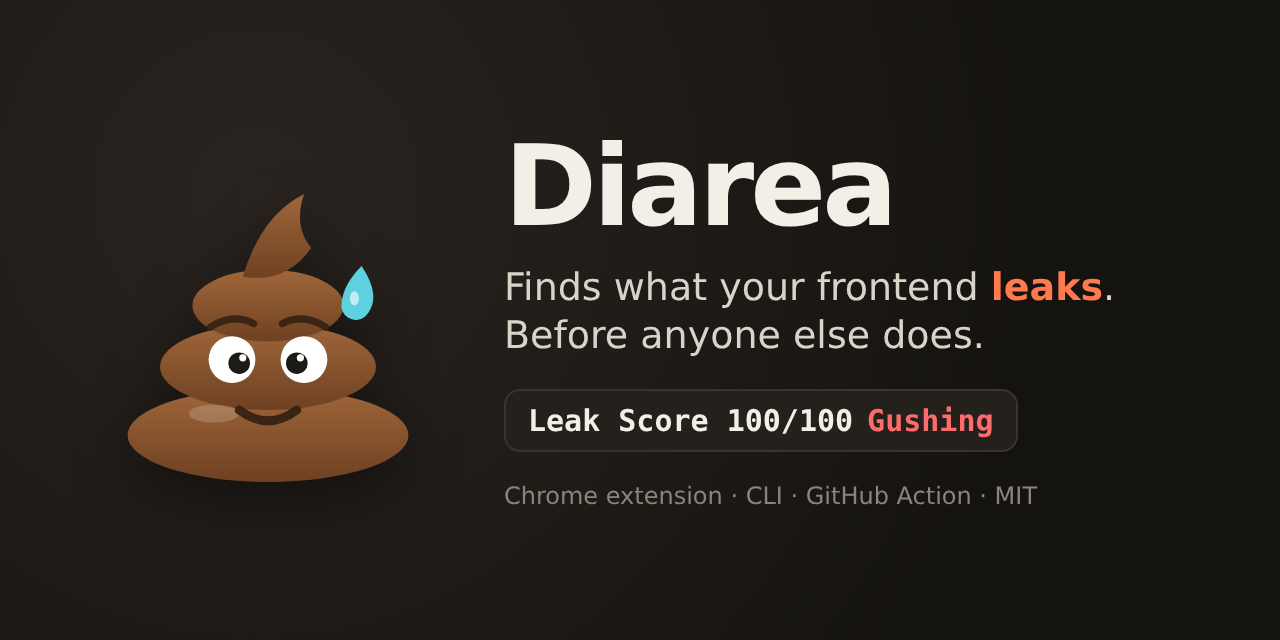
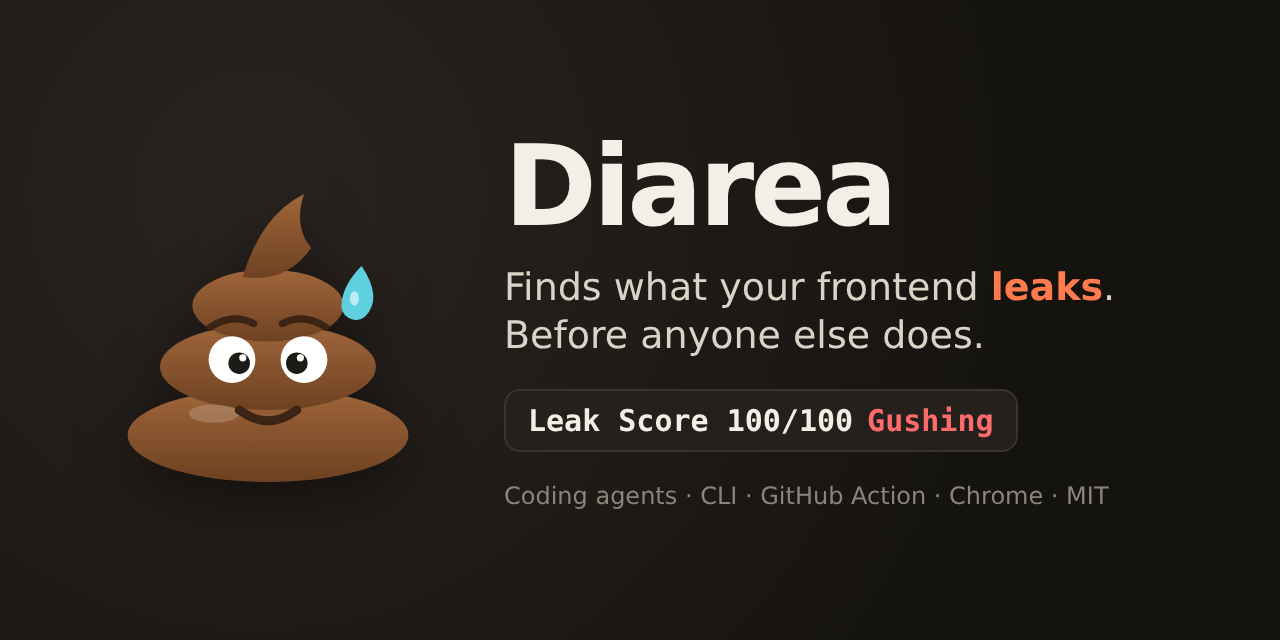
0.6.0: first live scan installs its browser, demo button never dead, link previews
Fixes from launch testing:

- The hero's quick start failed on a fresh machine with Playwright's
  "Executable doesn't exist". src/browser.js now starts Chromium for live
  scans and diarea login, turns that into a plain message, and installs with
  Diarea's own bundled Playwright (diarea install-browser), so the browser
  always matches; a bare npx playwright install can fetch another version.
  In a terminal the CLI offers to download it and retries the scan; CI,
  pipes and the MCP server just get the instruction. The hero and README
  say so.
- "Run the diagnosis" ignored clicks that came before the demo script had
  loaded (reproduced by delaying landing.js and clicking at once). The
  button now reads "Preparing the demo..." until the script and the demo
  page are ready, and an inline script remembers early clicks on the button
  or "Scan the leaky demo" so the scan starts as soon as it can.
- Link previews: a 1200x630 og-image (the 1.91:1 shape LinkedIn, X and
  Facebook use) alongside the 1280x640 GitHub one, image size, type and alt
  tags, site name, locale, X tags, a canonical URL, and a description that
  mentions coding agents and AI prompts.

Also: the sensitive-fields check (f3b8474) landed after the published
0.5.0, so the CHANGELOG lists it under 0.6.0 now.

Claude-Session: https://claude.ai/code/session_01Nn5ciGHHAuqPVRn5H8HYUB

Changed region(s): [[0.4062, 0.75, 0.875, 0.8125]]

diff --git a/site/index.html b/site/index.html
@@ -7,13 +7,36 @@
   <meta name="description" content="An AI agent can read your frontend and rebuild your product. Diarea reads it first, scores the leak from Sealed to Gushing, and tells you how to flush it. Open source, local only." />
   <meta name="theme-color" content="#191714" />
   <meta property="og:type" content="website" />
+  <meta property="og:site_name" content="Diarea" />
+  <meta property="og:locale" content="en_GB" />
   <meta property="og:title" content="Diarea: finds what your frontend leaks" />
-  <meta property="og:description" content="Exposed keys, source maps, API maps and debug globals, scored from Sealed to Gushing. Chrome extension, CLI and GitHub Action. MIT." />
+  <meta property="og:description" content="Exposed keys, source maps, API maps and AI prompts, scored from Sealed to Gushing. For your coding agent, the CLI, GitHub Actions and Chrome. Open source, local only." />
   <meta property="og:url" content="https://diarea.tools/" />
-  <meta property="og:image" content="https://diarea.tools/assets/social-preview.png" />
+  <meta property="og:image" content="https://diarea.tools/assets/og-image.png" />
+  <meta property="og:image:secure_url" content="https://diarea.tools/assets/og-image.png" />
+  <meta property="og:image:type" content="image/png" />
+  <meta property="og:image:width" content="1200" />
+  <meta property="og:image:height" content="630" />
+  <meta property="og:image:alt" content="The Diarea mascot, sweating, next to a Leak Score of 100 out of 100: Gushing." />
   <meta name="twitter:card" content="summary_large_image" />
+  <meta name="twitter:title" content="Diarea: finds what your frontend leaks" />
+  <meta name="twitter:description" content="Exposed keys, source maps, API maps and AI prompts, scored from Sealed to Gushing. For your coding agent, the CLI, GitHub Actions and Chrome. Open source, local only." />
+  <meta name="twitter:image" content="https://diarea.tools/assets/og-image.png" />
+  <meta name="twitter:image:alt" content="The Diarea mascot, sweating, next to a Leak Score of 100 out of 100: Gushing." />
+  <link rel="canonical" href="https://diarea.tools/" />
   <link rel="icon" href="assets/mascot.svg" type="image/svg+xml" />
   <link rel="stylesheet" href="landing.css" />
+  <script>
+    // Clicks that land before the demo script has loaded are remembered, not
+    // lost: landing.js starts the scan as soon as it and the demo are ready.
+    document.addEventListener("click", function (e) {
+      if (window.__diareaReady || !e.target.closest) return;
+      if (!e.target.closest("#scan-btn, [data-autoscan]")) return;
+      window.__diareaQueued = true;
+      var b = document.getElementById("scan-btn");
+      if (b) b.textContent = "Starting in a moment...";
+    });
+  </script>
 </head>
 <body>
   <a class="skip" href="#main">Skip to content</a>
@@ -48,6 +71,7 @@
         <div class="quick" aria-label="Quick start">
           <span class="prompt" aria-hidden="true">$</span><code>npx diarea scan https://your-site.com</code><button class="copy" type="button">Copy</button>
         </div>
+        <p class="quick-note">First live scan? Diarea offers to download a browser, once. Or run <code>npx diarea install-browser</code> first. Scanning your build with <code>npx diarea scan dist/</code> needs no browser at all.</p>
         <p class="fine">Exposed keys, source maps, API maps, AI prompts and the logic you thought was private. No signup, nothing leaves your machine.</p>
       </div>
       <div class="hero-art" aria-hidden="true">
@@ -119,7 +143,7 @@
               <p class="band" id="band">Awaiting diagnosis</p>
               <p class="band-line" id="band-line">Nothing examined yet. The patient is nervous.</p>
               <p class="basis-line" id="basis-line"></p>
-              <button class="btn btn-primary" id="scan-btn" type="button">Run the diagnosis</button>
+              <button class="btn btn-primary is-preparing" id="scan-btn" type="button" aria-disabled="true">Preparing the demo...</button>
             </div>
           </div>
           <div class="siu-meter" id="siu-meter" hidden aria-hidden="true">

diff --git a/bin/diarea.js b/bin/diarea.js
@@ -12,11 +12,12 @@ const HELP = `
 diarea ${VERSION}  -  frontend leak scanner (local, read-only)
 
 Usage:
-  diarea scan <url>              Scan a live site (needs Playwright + a browser)
+  diarea scan <url>              Scan a live site in a headless browser (offers to install it the first time)
   diarea scan <file.html>        Scan a saved page, no browser
   diarea scan <folder>           Scan a build folder: index.html plus every script (dist/)
   diarea scan --html <file>      Same, explicit
   cat page.html | diarea scan -  Scan HTML from stdin
+  diarea install-browser         Download the browser live scans use (once, matched to this version)
   diarea login <url>             Log in once in a real browser and save it, to scan pages behind a login
   diarea setup                   Let your coding agent run Diarea (Claude Code, MCP)
   diarea setup --project         ...for everyone on this project (.mcp.json)
@@ -131,6 +132,20 @@ function renderHuman(result, mode, s) {
   return out.join("\n");
 }
 
+// Only ask when a person is at the keyboard; in CI, pipes and agents the
+// error itself says what to run.
+async function offerBrowserInstall(s) {
+  if (!process.stdin.isTTY || !process.stderr.isTTY) return false;
+  const { createInterface } = await import("node:readline/promises");
+  const rl = createInterface({ input: process.stdin, output: process.stderr });
+  const answer = await rl.question(`\n  ${s.mag("\u{1F4A9} diarea")} Live scans need a browser, and Chromium is not installed yet.\n` +
+    "  Download it now? It is a one-off download, kept for next time. [Y/n] ");
+  rl.close();
+  if (/^\s*n/i.test(answer)) return false;
+  const { installBrowser } = await import("../src/browser.js");
+  return installBrowser() === 0;
+}
+
 async function main() {
   const o = parseArgs(process.argv.slice(2));
   if (o.version) { console.log(VERSION); return 0; }
@@ -149,6 +164,10 @@ async function main() {
     const { login } = await import("../src/login.js");
     return login(process.argv.slice(3));
   }
+  if (cmd === "install-browser") {
+    const { installBrowser } = await import("../src/browser.js");
+    return installBrowser();
+  }
   if (cmd === "setup") {
     const { setup } = await import("../src/setup.js");
     return setup(process.argv.slice(3));
@@ -164,7 +183,14 @@ async function main() {
   let result;
   try {
     if (o.storageState && (o.html || !isUrl(target))) throw new Error("--storage-state only applies to live scans of a URL.");
-    result = await scan(target, { timeout: o.timeout, forceStatic: Boolean(o.html), storageState: o.storageState });
+    const run = () => scan(target, { timeout: o.timeout, forceStatic: Boolean(o.html), storageState: o.storageState });
+    try {
+      result = await run();
+    } catch (err) {
+      // First live scan on this machine: offer to fetch the browser, then go again.
+      if (err.code !== "NO_BROWSER" || err.missingPackage || !(await offerBrowserInstall(s))) throw err;
+      result = await run();
+    }
   } catch (err) {
     console.error(`\n  ${s.crit("Could not scan.")} ${err.message}\n`);
     return 2;

diff --git a/src/browser.js b/src/browser.js
@@ -1,0 +1,49 @@
+/* Starting Chromium for live scans and `diarea login`, and installing it.
+ *
+ * Playwright's own error for a missing browser tells people to run
+ * `npx playwright install`, which can fetch a different Playwright from the
+ * one Diarea runs and so download a browser that still does not match. Diarea
+ * installs with its own bundled Playwright instead: `diarea install-browser`.
+ */
+import path from "node:path";
+import { spawnSync } from "node:child_process";
+import { createRequire } from "node:module";
+
+export const INSTALL_COMMAND = "npx diarea install-browser";
+
+export class BrowserMissingError extends Error {
+  constructor(missingPackage = false) {
+    super(missingPackage
+      ? "Live scans need Playwright, which is not installed here.\n  Install it:  npm install playwright\n  Then once:   " + INSTALL_COMMAND +
+        "\n  Or scan your build without a browser:  npx diarea scan dist/"
+      : "Live scans need a browser, and Chromium is not installed yet.\n  Install it once:  " + INSTALL_COMMAND +
+        "\n  Or scan your build without a browser:  npx diarea scan dist/");
+    this.code = "NO_BROWSER";
+    this.missingPackage = missingPackage;
+  }
+}
+
+export async function launchChromium(options = {}) {
+  let chromium;
+  try { ({ chromium } = await import("playwright")); } catch { throw new BrowserMissingError(true); }
+  try {
+    return await chromium.launch(options);
+  } catch (err) {
+    if (/Executable doesn't exist|playwright install|browserType\.launch: .*not found/i.test(err.message)) throw new BrowserMissingError();
+    throw err;
+  }
+}
+
+/** Download Chromium with the Playwright Diarea itself uses. Returns the exit code. */
+export function installBrowser({ stdio = "inherit" } = {}) {
+  let cli;
+  try {
+    const pkg = createRequire(import.meta.url).resolve("playwright/package.json");
+    cli = path.join(path.dirname(pkg), "cli.js");
+  } catch {
+    console.error("Playwright is not installed here. Run: npm install playwright");
+    return 2;
+  }
+  const res = spawnSync(process.execPath, [cli, "install", "chromium"], { stdio });
+  return res.status ?? 2;
+}

diff --git a/docs/assets/og-image.html b/docs/assets/og-image.html
@@ -1,0 +1,24 @@
+<!DOCTYPE html>
+<!-- Source for og-image.png (1200x630, the 1.91:1 link-preview shape LinkedIn, X and Facebook use). social-preview.html is the 1280x640 one for GitHub. -->
+<html lang="en-GB"><head><meta charset="UTF-8"><title>Diarea link preview</title>
+<style>
+  html, body { margin: 0; width: 1200px; height: 630px; }
+  body { background: radial-gradient(circle at 20% 30%, #2a2420, #151310 70%); color: #f3efe6;
+    font-family: "DejaVu Sans", system-ui, sans-serif; display: flex; align-items: center; gap: 48px; padding: 0 76px; box-sizing: border-box; overflow: hidden; }
+  img { width: 330px; height: 330px; flex: none; filter: drop-shadow(0 18px 30px rgba(0,0,0,.45)); }
+  h1 { font-size: 104px; margin: 0; letter-spacing: -4px; line-height: 1; }
+  .tag { font-size: 36px; line-height: 1.25; margin: 22px 0 30px; color: #d9d4c7; }
+  .tag b { color: #ff7a4d; }
+  .score { display: inline-flex; align-items: baseline; gap: 14px; background: #24211d; border: 2px solid #39352e; border-radius: 16px; padding: 12px 22px; font-family: "DejaVu Sans Mono", monospace; font-size: 30px; }
+  .score .n { font-weight: 700; } .score .g { color: #ff6b6b; font-weight: 700; }
+  .meta { margin-top: 30px; font-size: 24px; color: #8a857a; }
+</style></head>
+<body>
+  <img src="mascot.svg" alt="">
+  <div>
+    <h1>Diarea</h1>
+    <p class="tag">Finds what your frontend <b>leaks</b>.<br>Before anyone else does.</p>
+    <div class="score"><span class="n">Leak Score 100/100</span><span class="g">Gushing</span></div>
+    <div class="meta">Coding agents · CLI · GitHub Action · Chrome · MIT</div>
+  </div>
+</body></html>

diff --git a/site/landing.css b/site/landing.css
@@ -97,6 +97,7 @@ h2 { font-size: clamp(28px, 4.2vw, 42px); }
 .btn-primary { background: var(--accent); color: var(--accent-ink); box-shadow: 0 6px 18px color-mix(in srgb, var(--accent) 30%, transparent); }
 .btn-primary:hover { box-shadow: 0 8px 24px color-mix(in srgb, var(--accent) 40%, transparent); }
 .btn-primary[disabled] { opacity: 0.6; cursor: progress; }
+.btn-primary.is-preparing { opacity: 0.75; cursor: progress; }
 .btn-ghost { color: var(--ink); border-color: var(--line); background: var(--card); }
 .btn-ghost:hover { border-color: var(--ink-faint); }
 :focus-visible { outline: 3px solid color-mix(in srgb, var(--accent) 60%, transparent); outline-offset: 2px; }
@@ -128,6 +129,8 @@ h2 { font-size: clamp(28px, 4.2vw, 42px); }
 .quick .prompt { color: #8f887b; font-family: ui-monospace, SFMono-Regular, Menlo, Consolas, monospace; }
 .quick code { flex: 1; min-width: 0; overflow-x: auto; white-space: nowrap; font-size: 15px; }
 .quick .copy { position: static; flex: none; }
+.quick-note { margin: 10px 0 0; max-width: 560px; font-size: 14px; color: var(--ink-faint); }
+.quick-note code { background: var(--paper-2); border: 1px solid var(--line); border-radius: 6px; padding: 1px 5px; color: var(--ink-soft); white-space: nowrap; }
 .hero-art { position: relative; display: grid; place-items: center; }
 .mascot { width: min(300px, 70vw); height: auto; filter: drop-shadow(0 20px 30px rgba(60, 35, 15, 0.25)); animation: wobble 4s ease-in-out infinite; transform-origin: 50% 90%; }
 @keyframes wobble { 0%, 100% { transform: rotate(-2deg); } 50% { transform: rotate(2deg) translateY(-4px); } }

diff --git a/src/collect-live.js b/src/collect-live.js
@@ -4,7 +4,8 @@
  * to run on your own machine against a deployed site.
  *
  * Playwright is an optional dependency so that the static/CI path works without
- * a browser. If it is missing, this throws a clear, actionable error.
+ * a browser. If it or its Chromium is missing, launchChromium throws a
+ * BrowserMissingError that says how to install it (src/browser.js).
  *
  * Options:
  *   timeout       navigation timeout in ms
@@ -16,6 +17,7 @@
  */
 
 import { collectPage } from "./collect-page.js";
+import { launchChromium } from "./browser.js";
 import { crossOriginScripts, mapUrlFor, isSourceMap, isRelatedHost } from "./cross-origin.js";
 import { keyPaths } from "./shape.js";
 
@@ -60,21 +62,9 @@ export async function collectLive(url, opts = {}) {
   const guard = opts.guard || null;
   if (guard) await guard(url);
 
-  let chromium;
-  try {
-    ({ chromium } = await import("playwright"));
-  } catch {
-    throw new Error(
-      "Live scanning needs Playwright and a browser.\n" +
-      "  npm install playwright\n" +
-      "  npx playwright install chromium\n" +
-      "Or scan a saved page without a browser:  diarea scan --html page.html"
-    );
-  }
-
   // Always close the browser, even when navigation or collection throws:
   // the MCP server is long-lived, so a leaked Chromium would outlast the scan.
-  const browser = await chromium.launch();
+  const browser = await launchChromium();
   try {
     const context = await browser.newContext({
       ...(opts.storageState ? { storageState: opts.storageState } : {}),

diff --git a/site/landing.js b/site/landing.js
@@ -140,12 +140,39 @@ async function scan() {
   }
 }
 
-btn.addEventListener("click", scan);
+// The button stays in "Preparing" until this script and the demo page have
+// both loaded. Clicks before that are queued (see the inline script in
+// index.html), so a fast visitor never gets a dead button.
+let ready = false;
+let queued = false;
+function demoLoaded() {
+  return new Promise((resolve) => {
+    try {
+      const doc = frame.contentDocument;
+      if (doc && doc.readyState === "complete" && doc.location.href !== "about:blank") return resolve();
+    } catch { /* not readable yet */ }
+    frame.addEventListener("load", () => resolve(), { once: true });
+    setTimeout(resolve, 15000); // a slow demo still gets a working button
+  });
+}
+
+btn.addEventListener("click", () => { if (ready) scan(); else queued = true; });
 
 // "Scan the leaky demo" links scroll to the demo and start it.
 for (const a of document.querySelectorAll("[data-autoscan]")) {
-  a.addEventListener("click", () => setTimeout(scan, reduced ? 0 : 450));
+  a.addEventListener("click", () => {
+    if (ready) setTimeout(scan, reduced ? 0 : 450); else queued = true;
+  });
 }
+
+demoLoaded().then(() => {
+  ready = true;
+  window.__diareaReady = true;
+  btn.classList.remove("is-preparing");
+  btn.removeAttribute("aria-disabled");
+  if (queued || window.__diareaQueued) { queued = false; scan(); }
+  else btn.textContent = "Run the diagnosis";
+});
 
 // Copy buttons on the install snippets.
 for (const b of document.querySelectorAll(".copy")) {

diff --git a/src/login.js b/src/login.js
@@ -9,6 +9,7 @@
  * does hold a live session, so it is written readable by you only, and the
  * default folder (.diarea/) gets its own .gitignore so it is never committed.
  */
+import { launchChromium } from "./browser.js";
 import fs from "node:fs";
 import path from "node:path";
 import { createInterface } from "node:readline";
@@ -47,15 +48,14 @@ export async function login(argv, { log = console.log, cwd = process.cwd(), inpu
     return 2;
   }
 
-  let chromium;
+  let browser;
   try {
-    ({ chromium } = await import("playwright"));
-  } catch {
-    log("Saving a login needs Playwright and a browser:\n  npm install playwright\n  npx playwright install chromium");
+    browser = await launchChromium({ headless: false });
+  } catch (err) {
+    if (err.code !== "NO_BROWSER") throw err;
+    log("Saving a login needs a browser.\n" + err.message.split("\n").slice(1).join("\n"));
     return 2;
   }
-
-  const browser = await chromium.launch({ headless: false });
   try {
     const context = await browser.newContext();
     const page = await context.newPage();

diff --git a/docs/assets/social-preview.html b/docs/assets/social-preview.html
@@ -19,6 +19,6 @@
     <h1>Diarea</h1>
     <p class="tag">Finds what your frontend <b>leaks</b>.<br>Before anyone else does.</p>
     <div class="score"><span class="n">Leak Score 100/100</span><span class="g">Gushing</span></div>
-    <div class="meta">Chrome extension · CLI · GitHub Action · MIT</div>
+    <div class="meta">Coding agents · CLI · GitHub Action · Chrome · MIT</div>
   </div>
 </body></html>

diff --git a/scripts/build.js b/scripts/build.js
@@ -16,7 +16,7 @@ const TARGETS = {
   extension: { "extension/lib": [...ENGINE, "src/cross-origin.js"] },
   site: {
     "site/lib": ENGINE,
-    "site/assets": ["docs/assets/mascot.svg", "docs/assets/social-preview.png"],
+    "site/assets": ["docs/assets/mascot.svg", "docs/assets/social-preview.png", "docs/assets/og-image.png"],
   },
 };
 

diff --git a/CLAUDE.md b/CLAUDE.md
@@ -23,6 +23,7 @@ First real target: revoluAItion (revoluaition.com), a client-rendered app, so th
 - `src/scan.js` runs one scan from target to scored report; the CLI and the MCP server both use it. File scans use project-relative paths so reports never show local folder names.
 - `src/mcp.js` is the MCP server (JSON-RPC over stdio, stdout is protocol only) and `src/setup.js` the `diarea setup` command. Keep the tool read-only and the server instructions defensive. File targets must stay inside the project (symlinks resolved), stdin is never read, and every URL goes through `src/guard.js`: private and loopback addresses only with `--allow-private` (set by the user in the server config, never by a tool argument), link-local and cloud metadata never.
 - `src/guard.js` classifies hosts by name and by every address they resolve to; `collect-live.js` also routes each page request and checks the redirect chain through it.
+- `src/browser.js` starts Chromium for live scans and `diarea login`, turning Playwright's missing-browser error into one that says `npx diarea install-browser`, and installs with Diarea's own bundled Playwright so versions always match. The CLI offers the install interactively (TTY only); CI, pipes and the MCP server just get the instruction.
 - `src/login.js` is `diarea login`: the user logs in themselves in a headed browser and the storage state is saved 0600, with `.diarea/.gitignore`. Diarea never types or stores passwords.
 - `src/cross-origin.js` decides which cross-origin scripts are the site's own (same registrable domain, or a hosting CDN such as CloudFront). The live collector reads those from Node; the extension offers to read them with an optional host permission requested per site. Third-party scripts are never read.
 - `bin/diarea.js` is the CLI entry point. `src/sarif.js` formats a report as SARIF 2.1.0 (`--sarif`, and the Action's `sarif` input via `scripts/action-sarif.js`); it holds no rules. Every finding has a stable `id`, which is its SARIF rule id: never rename one. Each finding also carries a `basis` (`seen` or `inferred`, from `BASIS` in `checks.js`), REA's labels; Unknown is what stays on the server.
@@ -31,7 +32,7 @@ First real target: revoluAItion (revoluaition.com), a client-rendered app, so th
 - `test/fixtures/` holds deliberately leaky and clean pages. `npm test` must run without a browser. Fake secrets are assembled in the test, never stored as credential-shaped strings (GitHub push protection blocks them).
 - `site/` is published to GitHub Pages at https://diarea.tools (custom domain set in the repo's Pages settings; no CNAME file, since Actions deploys ignore it): the landing page (`index.html`, `landing.css`, `landing.js`) at the root, which runs the real engine on the demo in an iframe and loads nothing from third parties (not even fonts) until someone presses play on one of the two YouTube videos (the trailer and the launch video), which only then swaps in a youtube-nocookie player. `site/demo/` is PromptPlop, a fake AI app builder that leaks on purpose (every check must fire on it; the tests enforce this). It must stay generic: never model it on, or name it after, a real company. It is the only thing the docs and landing page ever scan.
 - `docs/store/` is the Chrome Web Store kit: `listing.md` (copy, permission justifications, privacy answers), screenshots and promo tiles rendered by `scripts/render-store-assets.js` (the real popup with stubbed `chrome.*` APIs), plus `extension/icons/` from the mascot. `npm run package:extension` builds `dist/diarea-extension-<version>.zip`. `site/privacy.html` is the privacy policy; keep it true to what the code does.
-- `docs/assets/scan.svg` is rendered from real CLI output by `scripts/render-terminal-svg.js`; `social-preview.png` is a screenshot of `social-preview.html`.
+- `docs/assets/scan.svg` is rendered from real CLI output by `scripts/render-terminal-svg.js`; `social-preview.png` (1280x640, for GitHub's social preview setting) and `og-image.png` (1200x630, the link-preview image the landing page's Open Graph and X tags point at) are screenshots of `social-preview.html` and `og-image.html`.
 
 ## Checks (current eleven)
 
@@ -49,7 +50,7 @@ Eleven checks covering things like exposed keys, source maps, un-minified or com
 
 ```
 npm install
-npx playwright install chromium   # only needed for live scans
+node bin/diarea.js install-browser # only needed for live scans (Diarea's own Playwright, so versions match)
 npm test
 npm run corpus                     # false-positive check against real libraries (network)
 node bin/diarea.js scan https://example.com

diff --git a/README.md b/README.md
@@ -33,7 +33,7 @@ npx diarea scan dist/index.html           # your build output, no browser needed
 npx diarea setup                          # let your coding agent run it (Claude Code, Cursor, any MCP client)
 ```
 
-Live scans need a browser once: `npx playwright install chromium`. Prefer clicking? There is a [Chrome extension](#install-the-extension). Want it in CI? There is a [GitHub Action](#github-action).
+Live scans need a browser once. Diarea offers to download it the first time, or run `npx diarea install-browser` (it fetches the exact Chromium this version of Diarea uses). Prefer clicking? There is a [Chrome extension](#install-the-extension). Want it in CI? There is a [GitHub Action](#github-action).
 
 ## Let your coding agent fix it
 
@@ -142,12 +142,13 @@ npx diarea scan https://your-site.com/dashboard --storage-state .diarea/login.js
 Two modes:
 
 - **Static (jsdom).** Point it at a `.html` file, stdin (`-`), or use `--html`. No browser, fast, safe on untrusted markup (scripts are never run). Reads inline scripts, hydration blobs and the DOM, plus the page's local `<script src>` and `modulepreload` files and any `.map` beside them. Give it the build folder (`dist`) and it reads every script and script map in it too, because lazy chunks and "hidden" source maps get deployed even though `index.html` never names them. It never reads outside that folder, never follows symlinks and never fetches anything. It will not see data that only appears after client-side rendering.
-- **Live (Playwright).** Point it at a URL. Loads the real page in headless Chromium, so it sees page globals, fetched bundles, the site's own CDN scripts and the live network map. Third-party scripts are never read. One-time setup:
+- **Live (Playwright).** Point it at a URL. Loads the real page in headless Chromium, so it sees page globals, fetched bundles, the site's own CDN scripts and the live network map. Third-party scripts are never read. The first live scan offers to download Chromium; to do it up front:
 
 ```
-npm install playwright
-npx playwright install chromium
+npx diarea install-browser
 ```
+
+It uses Diarea's own Playwright, so the browser always matches. (A bare `npx playwright install` can fetch a different Playwright and leave you with "Executable doesn't exist".)
 
 Most leakage lives behind the login, so live scans can sign in. `diarea login <url>` opens a real browser window; you log in yourself (Diarea never sees your password) and press Enter, and it saves that session to `.diarea/login.json`, readable only by you and kept out of git by its own `.gitignore`. Pass it with `--storage-state`. It is a live session: treat it like a password and delete it when you are done.
 
@@ -181,7 +182,7 @@ Commenting never fails the build: on forked pull requests (read-only token) it l
 
 We dogfood it: every pull request to this repo gets the Leak Score of our own landing page. It scores 11/100, Sealed. The one finding is that `landing.js` is readable, which for an open source site is rather the point.
 
-`@v0` follows the latest 0.x release. Pin to `@v0.5.0` (or a commit SHA) for a fixed version.
+`@v0` follows the latest 0.x release. Pin to `@v0.6.0` (or a commit SHA) for a fixed version.
 
 | Input | Default | |
 |---|---|---|
